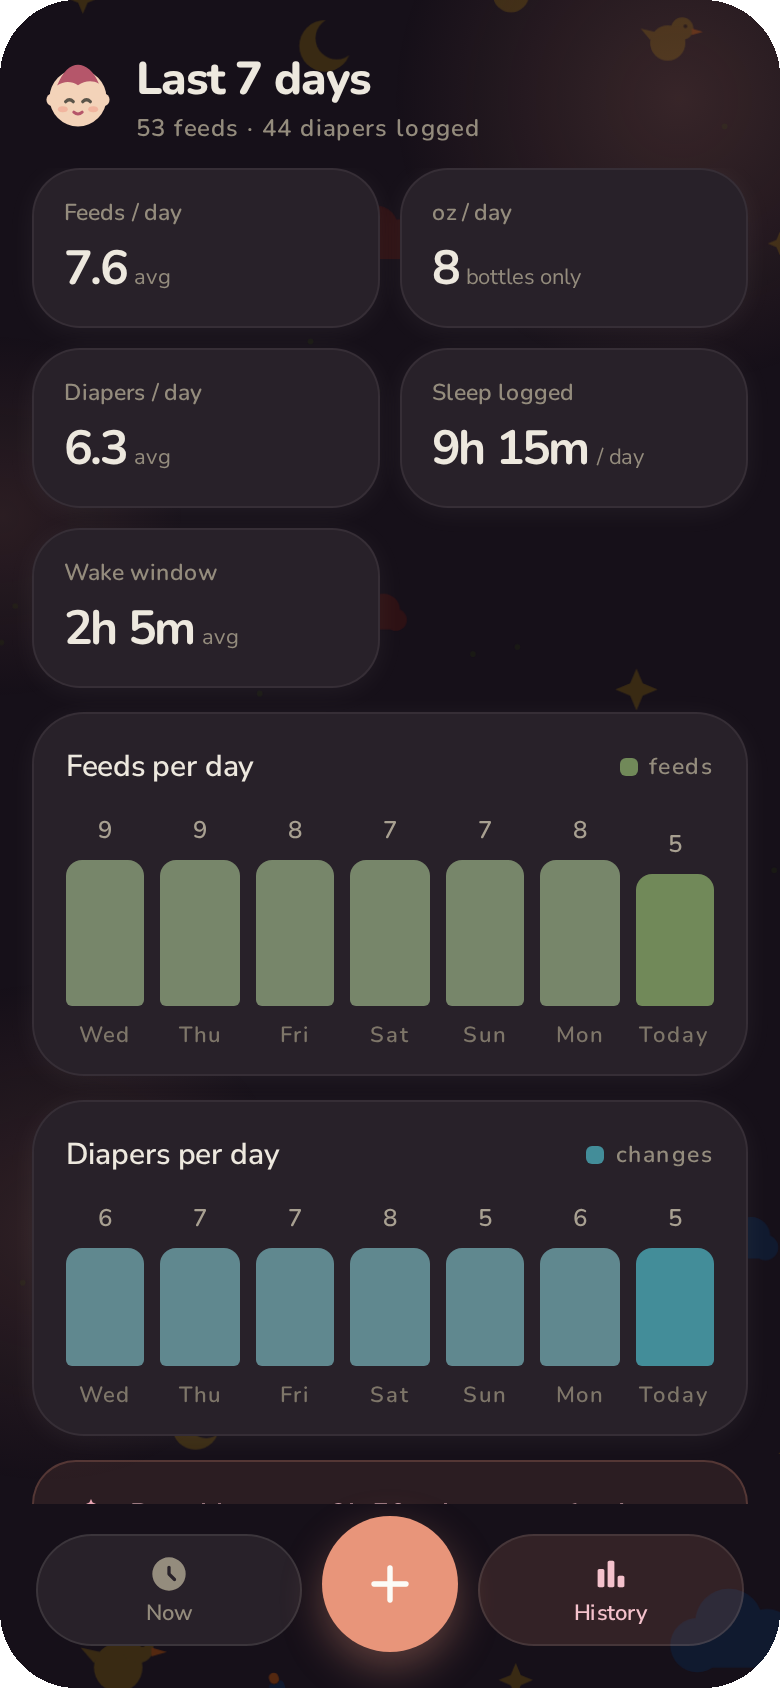
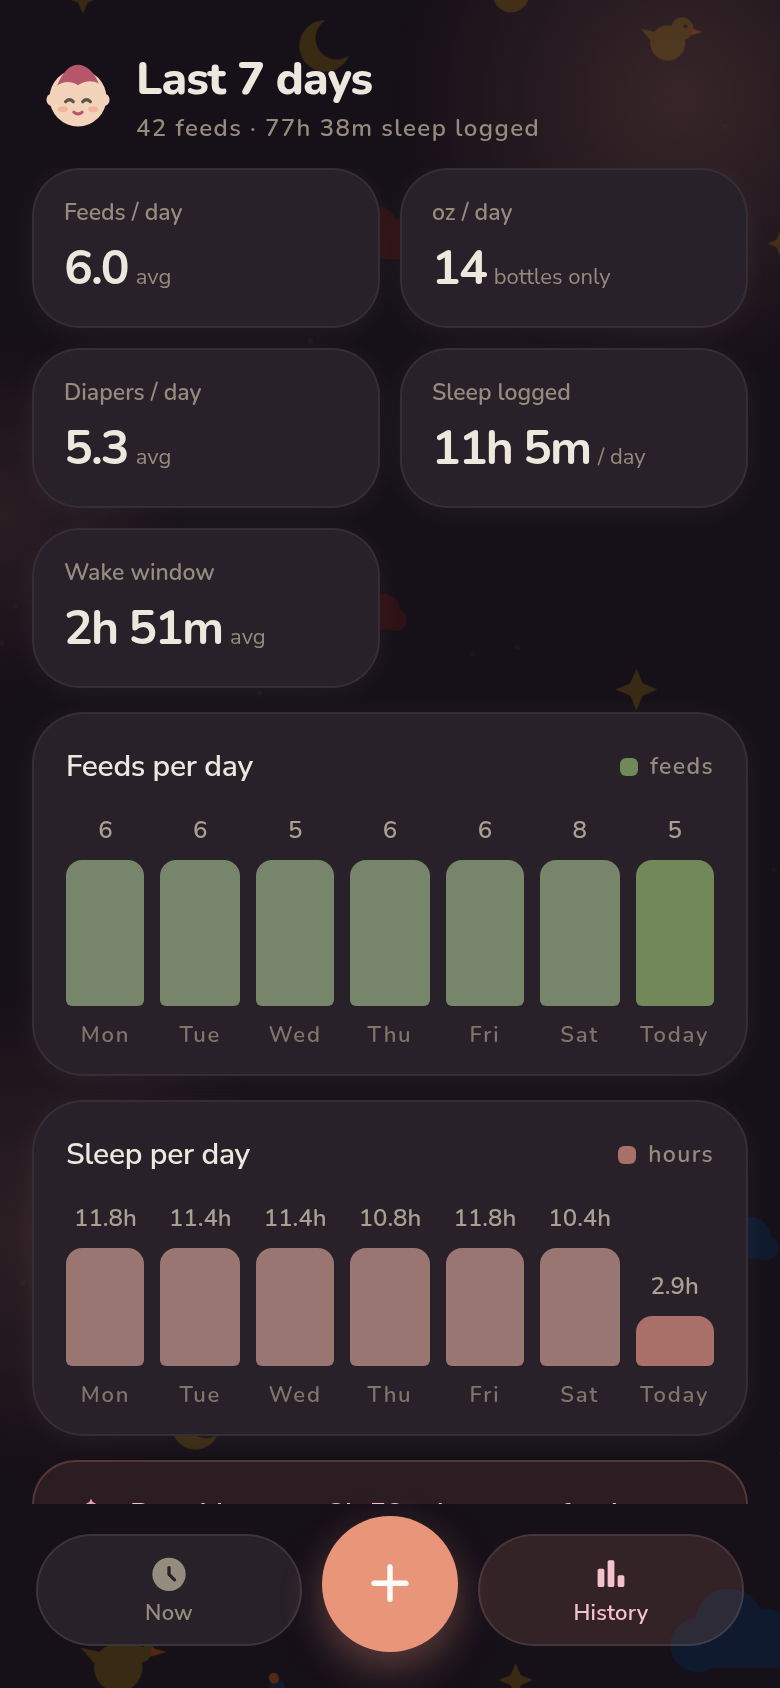
docs: the History screenshots show the charts a household picked
Retaken at 390x844@2x, light and dark, against a pinned clock so Today has a
day behind it. The pair now shows feeds beside sleep-in-hours rather than the
two charts that used to be hardcoded, which is the thing the batch added.

settings.png is deliberately unchanged: it frames the top of Settings, and the
new History-charts picker sits well below the fold of that shot.

diff --git a/README.md b/README.md
@@ -13,7 +13,7 @@
 <p align="center">
   <picture><source media="(prefers-color-scheme: dark)" srcset="docs/media/now-dark.png"><img src="docs/media/now.png" alt="Now screen — a running nursing timer, since-cards (the Fed card flipped to “Feeding now”), today's timeline, and the header's shift and settings buttons" width="23%"></picture>
   <picture><source media="(prefers-color-scheme: dark)" srcset="docs/media/log-dark.png"><img src="docs/media/log.png" alt="The log sheet — every entry type one tap away, with the timer framing and a “Log a past feed” escape hatch" width="23%"></picture>
-  <picture><source media="(prefers-color-scheme: dark)" srcset="docs/media/history-dark.png"><img src="docs/media/history.png" alt="History screen — 7-day stats tiles and per-day charts" width="23%"></picture>
+  <picture><source media="(prefers-color-scheme: dark)" srcset="docs/media/history-dark.png"><img src="docs/media/history.png" alt="History screen — 7-day stats tiles and the per-day charts this household picked, feeds and sleep-in-hours" width="23%"></picture>
   <picture><source media="(prefers-color-scheme: dark)" srcset="docs/media/settings-dark.png"><img src="docs/media/settings.png" alt="Settings screen — baby profile, household members and roles, appearance" width="23%"></picture>
 </p>
 <!-- screenshots:end -->
